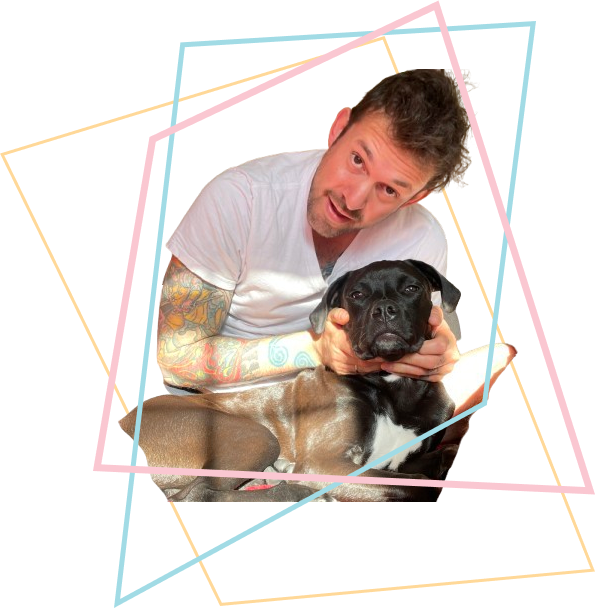
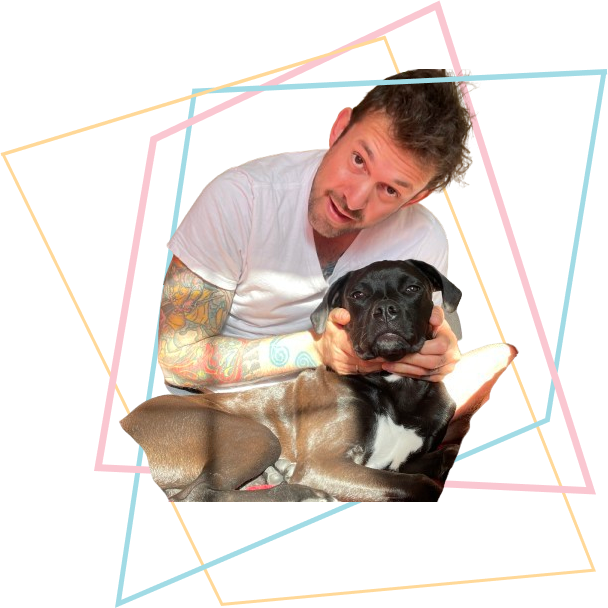
fixing

diff --git a/src/App.vue b/src/App.vue
@@ -95,7 +95,7 @@ gsap.to('.intro', {
         <p :class="textCode" >Hey! My name is Ben and I have over 16 years of experience as a manager in different industries and continents.
            From the coffee and customer service industry to the music world.
            Play with the pedal and find out more about me!</p>
-        <img v-if="textCode === 'img'" class="animate-appear w-[90%] md:w-[500px]" src="/bengraphics.png" alt="">
+        <img v-if="textCode === 'img'" class="animate-appear w-full md:w-[500px]" src="/bengraphics.png" alt="">
       </div>
       <div class="container col-start-1 row-start-1 z-[99] md:order-1 h-[140dvh] md:h-fit w-full md:static md:w-[40vw] md:min-w-[350px] md:max-w-[450px] md:px-2 md:top-0 md:flex justify-center items-center">
         <div id="pedal-div" class="w-full h-fit md:w-[350px] min-h-[100dvh] md:min-h-[0px] px-6 bg-ben-white/30 backdrop-blur md:backdrop-blur-none rounded-t-[50px] pt-4 md:pt-0 md:bg-transparent">
